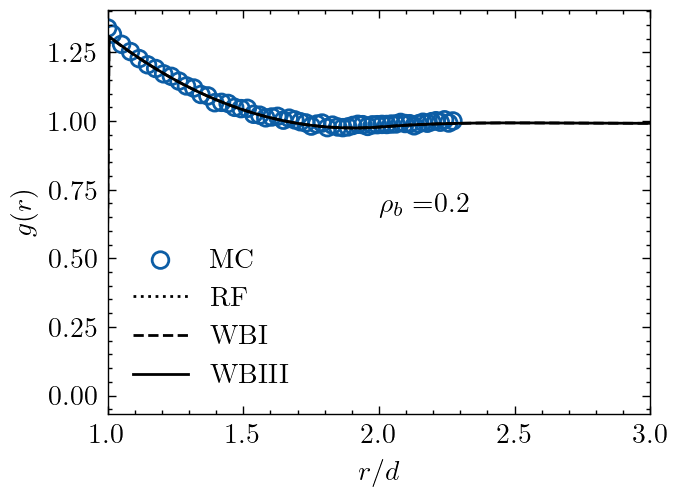
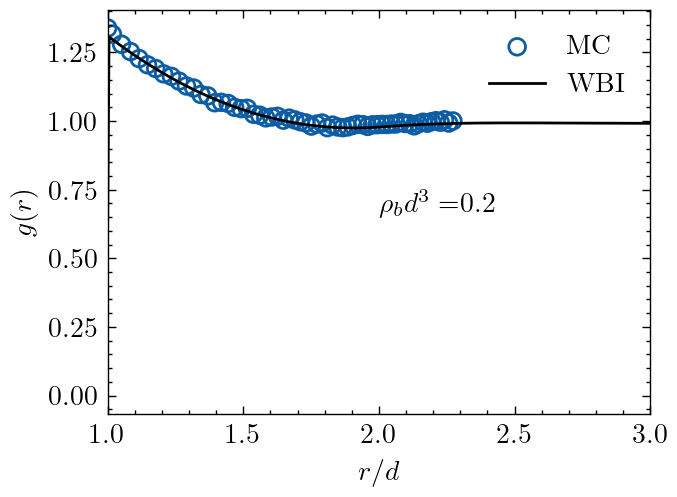
Adding messages in fmt1d.py

diff --git a/src/fmt1d.py b/src/fmt1d.py
@@ -1,4 +1,5 @@
 import numpy as np
+import timeit
 from scipy.ndimage import convolve1d
 # Author: Elvis do A. Soares
 # Github: @elvissoares
@@ -37,9 +38,14 @@ def integrate1dplanar(f,z,dz):
 def integrate1dspherical(f,r,dr):
     return np.sum(f*4*np.pi*r**2)*dr
 
-####################################################
-####### The FMT Functional on 1d geometries   ######
-####################################################
+
+" The DFT model for hard-sphere fluid on 1d geometries"
+
+" The hard-sphere FMT functional implemented are the following: "
+" fmtmethod = RF (Rosenfeld functional) "
+"           = WBI (White Bear version I) "
+"           = WBII (White Bear version II) "
+
 class FMT1D():
     def __init__(self,L,d=np.array([1.0]),method='WBI',geometry='Planar'):
         self.geometry = geometry
@@ -79,16 +85,30 @@ class FMT1D():
             self.w2[i] = self.d[i]*np.pi*np.ones(nd)
             self.w2vec[i] = twopi*x
 
+        print('==== The FMT for hard-sphere fluid DFT ====')
+        print('Geometry:',self.geometry )
+        print('FMT method:',self.method )
+        print('L =',self.L)
+        print('---------------------------')
+        print('Number os species =',self.species)
+        print('d:',self.d)
+
     def Set_BulkDensities(self,rhob):
+        print('---- Setting bulk quantities ----')
         self.rhob = rhob
         self.Calculate_mu()
         self.Set_InitialCondition()
+        print('rhob:',self.rhob)
+        print('muid:',self.muid)
+        print('muexc:',self.muexc)
     
     def Set_External_Potential(self,extpotmodel='hardwall',params='None'):
+        print('---- Setting external potential ----')
         self.extpotmodel = extpotmodel
         self.params = params
-        if self.extpotmodel  == 'hardwall' or self.extpotmodel  == 'hardpore':
+        if self.extpotmodel  == 'hardwall' or self.extpotmodel  == 'hardpore' or self.extpotmodel  == 'hardsphere':
             self.Vext[:] = 0.0
+        print('External Potential model is:',self.extpotmodel)
 
     def Set_InitialCondition(self):
         nsig = (0.5*self.d/self.delta).astype(int)
@@ -160,13 +180,13 @@ class FMT1D():
 
         aux = -self.n0*np.log(self.oneminusn3)+(self.phi2/self.oneminusn3)*(self.n1*self.n2-(self.n1vec*self.n2vec)) + (self.phi3/(24*np.pi*self.oneminusn3**2))*(self.n2*self.n2*self.n2-3*self.n2*(self.n2vec*self.n2vec))
 
-        self.Fhs = self.integrate(aux,self.z,self.delta)
+        self.Fexc = self.integrate(aux,self.z,self.delta)
 
-        self.F = self.Fid+self.Fhs
+        self.F = self.Fid+self.Fexc
 
     def Calculate_Omega(self):
         self.Calculate_Free_energy()
-        self.Omega = (self.F + self.integrate((self.Vext-self.mu[:,np.newaxis])*self.rho,self.z,self.delta))/self.L
+        self.Omega = (self.F + self.integrate((self.Vext-self.mu[:,np.newaxis])*self.rho,self.z,self.delta))
 
     def Calculate_c1(self):
         self.dPhidn0 = -np.log(self.oneminusn3 )
@@ -223,8 +243,11 @@ class FMT1D():
 
         self.mu = self.muid + self.muexc
 
-    def Calculate_Equilibrium(self,alpha0=0.19,dt=0.01,atol=1e-8,rtol=1e-6,logoutput=False):
-        " Global variables for the FIRE algorithm"
+    def Calculate_Equilibrium(self,alpha0=0.19,dt=0.01,rtol=1e-4,atol=1e-5,logoutput=False):
+
+        print('---- Obtaining the thermodynamic equilibrium ----')
+
+        # Fire algorithm
         Ndelay = 20
         Nmax = 10000
         finc = 1.1
@@ -236,6 +259,8 @@ class FMT1D():
         alpha = alpha0
         Npos = 0
         Nneg = 0
+
+        starttime = timeit.default_timer()
 
         lnrho = np.log(self.rho)
         V = np.zeros_like(self.rho)
@@ -272,9 +297,18 @@ class FMT1D():
             V[:] += 0.5*dt*F
 
             error = max(np.abs(F.min()),F.max())
-            if error/error0 < rtol or error < atol: break
+            if error/error0 < rtol and error < atol: break
 
             if logoutput: print(i,self.Omega,error)
         self.Niter = i
 
         del V, F  
+
+        print("Time to achieve equilibrium:", timeit.default_timer() - starttime, 'sec')
+        print('Number of iterations:', self.Niter)
+        print('error:', error)
+        print('---- Equilibrium quantities ----')
+        print('Fid =',self.Fid)
+        print('Fexc =',self.Fexc)
+        print('Omega =',self.Omega)
+        print('================================')

diff --git a/examples/hardwall_mixture.py b/examples/hardwall_mixture.py
@@ -3,19 +3,13 @@ import sys
 sys.path.insert(0, '../src/')
 from fmt1d import FMT1D
 import matplotlib.pyplot as plt
-import timeit
 
-starttime = timeit.default_timer()
-plt.style.use(['science'])
+# plt.style.use(['science'])
 
 d = np.array([1.0,3.0])
 L = 10*d[1]
-fmt = FMT1D(L=L,d=d,method='RF')
+fmt = FMT1D(L=L,d=d,method='WBI')
 fmt.Set_External_Potential(extpotmodel='hardwall')
-fmt1 = FMT1D(L=L,d=d,method='WBI')
-fmt1.Set_External_Potential(extpotmodel='hardwall')
-fmt2 = FMT1D(L=L,d=d,method='WBII')
-fmt2.Set_External_Potential(extpotmodel='hardwall')
 
 eta = 0.39
 x1 = 0.25
@@ -23,15 +17,8 @@ r = d[0]/d[1]
 rhob = np.array([eta/(np.pi*d[0]**3*(1+(1-x1)/x1/r**3)/6), eta/(np.pi*d[0]**3*(1+(1-x1)/x1/r**3)/6)*(1-x1)/x1])
 
 fmt.Set_BulkDensities(rhob)
-fmt1.Set_BulkDensities(rhob)
-fmt2.Set_BulkDensities(rhob)
-
-print('mu =',fmt.mu)
-print('rhob=',fmt.rhob)
 
 fmt.Calculate_Equilibrium(logoutput=False)
-fmt1.Calculate_Equilibrium(logoutput=False)
-fmt2.Calculate_Equilibrium(logoutput=False)
 
 # data from: NOWORYTA, JERZY P., et al. “Hard Sphere Mixtures near a Hard Wall.” Molecular Physics, vol. 95, no. 3, Oct. 1998, pp. 415–24, doi:10.1080/00268979809483175.
 folder = 'data/'
@@ -39,9 +26,7 @@ name = 'hardwall-mixture-eta=0.39-x1=0.25-ratio3'
 data = np.loadtxt(folder+name+'.dat')
 [xdata, rhodata,xdata1, rhodata1] = data.T
 plt.scatter(xdata,rhodata*fmt.rhob[0],marker='o',edgecolors='C0',facecolors='none',label='MC')
-plt.plot(fmt.z,fmt.rho[0],':k',label='RF')
-plt.plot(fmt1.z,fmt1.rho[0],'--k',label='WBI')
-plt.plot(fmt2.z,fmt2.rho[0],'k',label='WBII')
+plt.plot(fmt.z,fmt.rho[0],'k',label='WBI')
 plt.xlabel(r'$z/d_s$')
 plt.ylabel(r'$\rho_s(z) d_s^3$')
 plt.xlim(0.5,8)
@@ -55,9 +40,7 @@ plt.show()
 plt.close()
 
 plt.scatter(xdata1,rhodata1*fmt.rhob[1]*d[1]**3,marker='s',edgecolors='C3',facecolors='none',label='MC')
-plt.plot(fmt.z,fmt.rho[1]*d[1]**3,':k',label='RF')
-plt.plot(fmt1.z,fmt1.rho[1]*d[1]**3,'--k',label='WBI')
-plt.plot(fmt2.z,fmt2.rho[1]*d[1]**3,'k',label='WBII')
+plt.plot(fmt.z,fmt.rho[1]*d[1]**3,'k',label='WBI')
 plt.xlabel(r'$z/d_s$')
 plt.ylabel(r'$\rho_b(z) d_b^3$')
 plt.xlim(1.5,8)

diff --git a/examples/radialdistribution.py b/examples/radialdistribution.py
@@ -3,18 +3,12 @@ import sys
 sys.path.insert(0, '../src/')
 from fmt1d import FMT1D
 import matplotlib.pyplot as plt
-import timeit
 import pandas as pd
 
-starttime = timeit.default_timer()
-plt.style.use(['science'])
+# plt.style.use(['science'])
     
-fmt = FMT1D(L=9.0,method='RF',geometry='Spherical')
-fmt2 = FMT1D(L=9.0,method='WBI',geometry='Spherical')
-fmt3 = FMT1D(L=9.0,method='WBII',geometry='Spherical')
+fmt = FMT1D(L=10.0,method='WBI',geometry='Spherical')
 fmt.Set_External_Potential(extpotmodel='hardsphere')
-fmt2.Set_External_Potential(extpotmodel='hardsphere')
-fmt3.Set_External_Potential(extpotmodel='hardsphere')
 
 rhobarray = np.array([0.2,0.9])
 
@@ -23,26 +17,16 @@ df = pd.read_excel('data/MCdata-radialdistribution-hardsphere-Barker1971.xls',sh
 for rhob in rhobarray:
 
     fmt.Set_BulkDensities(np.array([rhob]))
-    fmt2.Set_BulkDensities(np.array([rhob]))
-    fmt3.Set_BulkDensities(np.array([rhob]))
-
-    print('rhob = ',rhob)
-    print('muid = ',fmt.muid[0])
-    print('muexc = ',fmt.muexc[0],fmt2.muexc[0],fmt3.muexc[0])
 
     fmt.Calculate_Equilibrium(logoutput=False)
-    fmt2.Calculate_Equilibrium(logoutput=False)
-    fmt3.Calculate_Equilibrium(logoutput=False)
 
     plt.scatter(df['r'],df['rhob='+str(rhob)],marker='o',edgecolors='C0',facecolors='none',label='MC')
-    plt.plot(fmt.z,fmt.rho[0]/fmt.rhob[0],':',color='k',label='RF')
-    plt.plot(fmt2.z,fmt2.rho[0]/fmt.rhob[0],'--',color='k',label='WBI')
-    plt.plot(fmt3.z,fmt3.rho[0]/fmt.rhob[0],'-',color='k',label='WBIII')
+    plt.plot(fmt.z,fmt.rho[0]/fmt.rhob[0],color='k',label='WBI')
     plt.xlabel(r'$r/d$')
     plt.ylabel(r'$g(r)$')
     plt.xlim(1,3)
     # plt.ylim(0.0,5.5)
-    plt.text(2,df['rhob='+str(rhob)].max()/2,r'$\rho_b=$'+str(rhob))
+    plt.text(2,df['rhob='+str(rhob)].max()/2,r'$\rho_b d^3=$'+str(rhob))
     plt.legend(loc='best')
     plt.savefig('radialdistribution-rhob'+str(rhob)+'.png',dpi=200)
     # plt.show()

diff --git a/examples/hardwall.py b/examples/hardwall.py
@@ -3,18 +3,11 @@ import sys
 sys.path.insert(0, '../src/')
 from fmt1d import FMT1D
 import matplotlib.pyplot as plt
-import timeit
 
-starttime = timeit.default_timer()
-plt.style.use(['science'])
+# plt.style.use(['science'])
     
-fmtmethod = ['RF','WBI','WBII']
-fmt = FMT1D(L=6.0,method='RF')
-fmt2 = FMT1D(L=6.0,method='WBI')
-fmt3 = FMT1D(L=6.0,method='WBII')
+fmt = FMT1D(L=6.0,method='WBI')
 fmt.Set_External_Potential(extpotmodel='hardwall')
-fmt2.Set_External_Potential(extpotmodel='hardwall')
-fmt3.Set_External_Potential(extpotmodel='hardwall')
 
 etaarray = np.array([0.4257,0.4783])
 
@@ -22,23 +15,13 @@ for eta in etaarray:
 
     rhob = eta/(np.pi/6.0)
     fmt.Set_BulkDensities(np.array([rhob]))
-    fmt2.Set_BulkDensities(np.array([rhob]))
-    fmt3.Set_BulkDensities(np.array([rhob]))
-
-    print('rhob = ',rhob)
-    print('muid = ',fmt.muid[0])
-    print('muexc = ',fmt.muexc[0],fmt2.muexc[0],fmt3.muexc[0])
 
     fmt.Calculate_Equilibrium(logoutput=False)
-    fmt2.Calculate_Equilibrium(logoutput=False)
-    fmt3.Calculate_Equilibrium(logoutput=False)
 
     data = np.loadtxt('data/hardwall-eta'+str(eta)+'.dat')
     [xdata, rhodata] = [data[:,0],data[:,1]]
     plt.scatter(xdata,rhodata,marker='o',edgecolors='C0',facecolors='none',label='MC')
-    plt.plot(fmt.z,fmt.rho[0],':',color='k',label='RF')
-    plt.plot(fmt2.z,fmt2.rho[0],'--',color='k',label='WBI')
-    plt.plot(fmt3.z,fmt3.rho[0],'-',color='k',label='WBIII')
+    plt.plot(fmt.z,fmt.rho[0],'-',color='k',label=fmt.method)
     plt.xlabel(r'$z/d$')
     plt.ylabel(r'$\rho(z)d^3$')
     plt.xlim(0.5,3)
@@ -46,5 +29,5 @@ for eta in etaarray:
     plt.text(2,rhodata.max()/2,r'$\eta=$'+str(eta))
     plt.legend(loc='best')
     plt.savefig('hardwall-eta'+str(eta)+'.png',dpi=200)
-    # plt.show()
+    plt.show()
     plt.close()

diff --git a/README.md b/README.md
@@ -34,18 +34,18 @@ $$ \frac{\partial \Omega}{\partial \rho_i(\boldsymbol{r})} = k_B T \ln(\rho_i(\b
 On the folder 'examples' you can find different applications of the FMT. 
 
 ## Hard-Sphere near a Hardwall
-|![Figure1](https://github.com/elvissoares/PyFMT/blob/main/examples/hardwall-eta0.4257.png)|![Figure2](https://github.com/elvissoares/PyFMT/blob/main/examples/hardwall-eta0.4783.png)|
+|![Figure1](https://github.com/elvissoares/PyFMT/blob/main/examples/hardwall-eta0.4257-allmethods.png)|![Figure2](https://github.com/elvissoares/PyFMT/blob/main/examples/hardwall-eta0.4783-allmethods.png)|
 |:--:|:--:|
 | <b>Fig.1 - The density profiles of a pure hard-sphere fluid at a planar hard wall with bulk packing fraction of η = 0.4257. </b>| <b>Fig.2 - The density profiles of a pure hard-sphere fluid at a planar hard wall with bulk packing fraction of η = 0.4783. </b>|
 
 ## Hard-Sphere Mixture near a Hardwall
 
-|![Figure3](https://github.com/elvissoares/PyFMT/blob/main/examples/hardwall-mixture-eta%3D0.39-x1%3D0.25-ratio3-small.png)|![Figure4](https://github.com/elvissoares/PyFMT/blob/main/examples/hardwall-mixture-eta%3D0.39-x1%3D0.25-ratio3-big.png)|
+|![Figure3](https://github.com/elvissoares/PyFMT/blob/main/examples/hardwall-mixture-eta%3D0.39-x1%3D0.25-ratio3-small-allmethods.png)|![Figure4](https://github.com/elvissoares/PyFMT/blob/main/examples/hardwall-mixture-eta%3D0.39-x1%3D0.25-ratio3-big-allmethods.png)|
 |:--:|:--:|
 | <b>Fig.3 - Density profiles at a planar hard wall of the *small spheres* of a binary mixture with size ratio σ_b = 3σ_s and packing η = 0.39 and x1 = 0.25. </b>| <b>Fig.4 - Density profiles at a planar hard wall of the *big spheres* of a binary mixture with size ratio σ_b = 3σ_s and packing η = 0.39 and x1 = 0.25. </b>|
 
 ## Hard-Sphere Radial Distribution Function
 
-|![Figure5](https://github.com/elvissoares/PyFMT/blob/main/examples/radialdistribution-rhob0.2.png)|![Figure6](https://github.com/elvissoares/PyFMT/blob/main/examples/radialdistribution-rhob0.9.png)|
+|![Figure5](https://github.com/elvissoares/PyFMT/blob/main/examples/radialdistribution-rhob0.2-allmethods.png)|![Figure6](https://github.com/elvissoares/PyFMT/blob/main/examples/radialdistribution-rhob0.9-allmethods.png)|
 |:--:|:--:|
 | <b>Fig.5 - The radial distribution function of a pure hard-sphere fluid with bulk density ρ_b = 0.2. </b>| <b>Fig.6 - The radial distribution function of a pure hard-sphere fluid with bulk density ρ_b = 0.9.  </b>|
